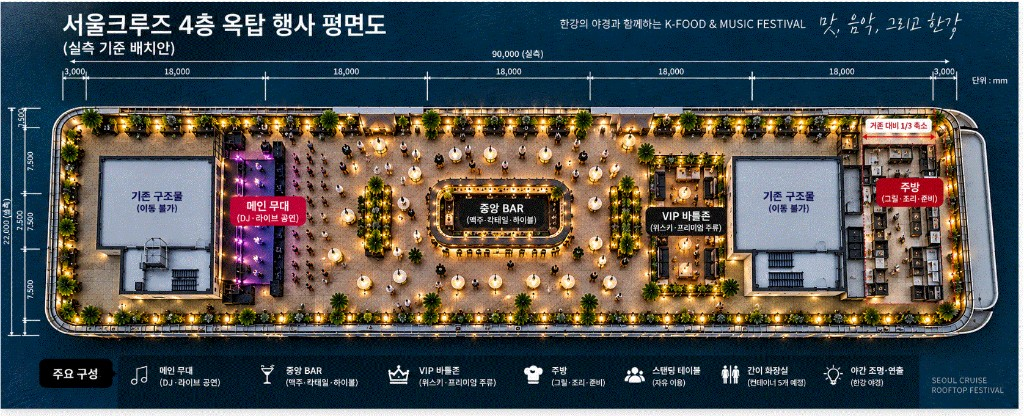
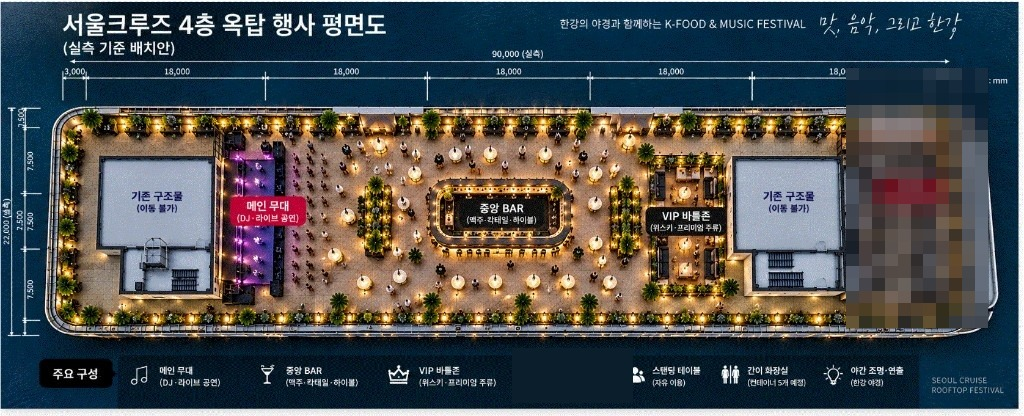
fix: 4층 배치도에서 주방을 모자이크로 가리고 범례에서 뺀다.

diff --git a/docs/cruise-festival/index.html b/docs/cruise-festival/index.html
@@ -278,9 +278,9 @@ h2{font-size:clamp(26px,3.6vw,36px);font-weight:600;letter-spacing:.06em;margin-
     <h2>4층 루프탑 배치</h2>
     <p class="lead">축제 기간 옥상 구성입니다. 클릭하면 확대됩니다.</p>
     <div class="plans">
-      <figure data-src="assets/plan.jpg">
-        <img src="assets/plan.jpg" alt="서울크루즈 4층 옥탑 행사 평면도">
-        <figcaption>실측 평면도 · 메인 무대, 중앙 바, VIP, 주방</figcaption>
+      <figure data-src="assets/plan.jpg?v=nokitchen">
+        <img src="assets/plan.jpg?v=nokitchen" alt="서울크루즈 4층 옥탑 행사 평면도">
+        <figcaption>실측 평면도 · 메인 무대, 중앙 바, VIP</figcaption>
       </figure>
     </div>
   </div>
